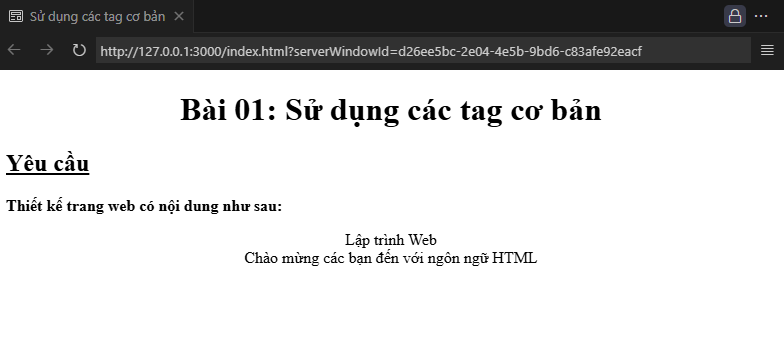
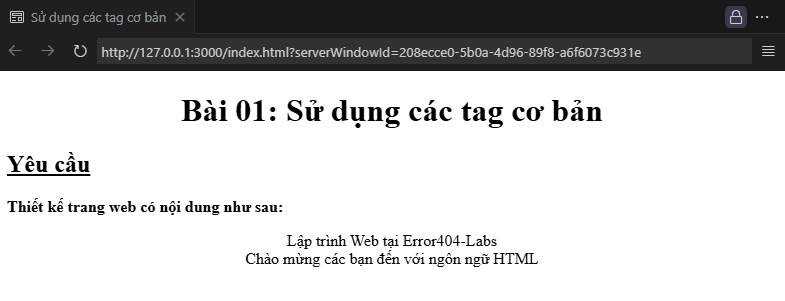
- Update demo.png

diff --git a/htmlcssjs/HocWeb/CoBan/slideshare/Bai01/index.html b/htmlcssjs/HocWeb/CoBan/slideshare/Bai01/index.html
@@ -4,280 +4,14 @@
         <meta charset="UTF-8" />
         <meta name="viewport" content="width=device-width, initial-scale=1.0" />
         <title>Sử dụng các tag cơ bản</title>
-        <script src="https://cdn.jsdelivr.net/npm/marked/marked.min.js"></script>
-        <style>
-            :root {
-                color-scheme: light dark;
-                --primary: #1e5b66;
-                --radius: 10px;
-            }
-
-            /* ---------- Custom Scrollbar ---------- */
-            ::-webkit-scrollbar {
-                width: 10px;
-            }
-
-            ::-webkit-scrollbar-track {
-                background: rgba(0, 0, 0, 0.05);
-            }
-
-            ::-webkit-scrollbar-thumb {
-                background: var(--primary);
-                border-radius: 5px;
-            }
-
-            ::-webkit-scrollbar-thumb:hover {
-                background: #165159;
-            }
-
-            /* Firefox scrollbar */
-            * {
-                scrollbar-width: thin;
-                scrollbar-color: var(--primary) rgba(0, 0, 0, 0.05);
-            }
-
-            /* ---------- Layout ---------- */
-            body {
-                font-family: "Segoe UI", system-ui, sans-serif;
-                line-height: 1.7;
-                margin: 0;
-                padding: 0;
-                min-height: 100vh;
-                display: flex;
-                justify-content: center;
-                align-items: flex-start;
-                background: linear-gradient(135deg, #667eea 0%, #764ba2 100%);
-                color: var(--text, #222);
-                transition: background 0.3s, color 0.3s;
-            }
-
-            #container {
-                width: 100%;
-                max-width: 900px;
-                margin: 2rem;
-                background: var(--content-bg, #ffffff);
-                padding: 3rem;
-                border-radius: var(--radius);
-                box-shadow: 0 20px 60px rgba(0, 0, 0, 0.3);
-                box-sizing: border-box;
-                transition: background 0.3s, box-shadow 0.3s;
-                animation: slideIn 0.5s ease-out;
-            }
-
-            @keyframes slideIn {
-                from {
-                    opacity: 0;
-                    transform: translateY(30px);
-                }
-                to {
-                    opacity: 1;
-                    transform: translateY(0);
-                }
-            }
-
-            /* ---------- Dark Mode ---------- */
-            @media (prefers-color-scheme: dark) {
-                body {
-                    background: linear-gradient(135deg, #1a1a2e 0%, #16213e 100%);
-                    --text: #e6edf3;
-                    --content-bg: #1e1e2e;
-                }
-                code,
-                pre {
-                    background: #2a2a3a;
-                    color: #d1d5db;
-                }
-                th {
-                    background-color: #2a2a3a;
-                }
-                ::-webkit-scrollbar-track {
-                    background: rgba(255, 255, 255, 0.05);
-                }
-            }
-
-            /* ---------- Typography ---------- */
-            h1,
-            h2,
-            h3,
-            h4,
-            h5,
-            h6 {
-                color: var(--primary);
-                margin-top: 1.8em;
-                margin-bottom: 0.6em;
-                scroll-margin-top: 1em;
-                font-weight: 600;
-            }
-
-            h1 {
-                text-align: center;
-                border-bottom: 3px solid var(--primary);
-                display: inline-block;
-                padding-bottom: 0.3em;
-                margin: 0 auto 1.5em;
-                font-size: 2.2em;
-            }
-
-            h2 {
-                font-size: 1.8em;
-                padding-bottom: 0.3em;
-                border-bottom: 2px solid rgba(30, 91, 102, 0.2);
-            }
-
-            a {
-                color: var(--primary);
-                text-decoration: none;
-                transition: color 0.2s;
-            }
-            a:hover {
-                text-decoration: underline;
-                color: #165159;
-            }
-
-            /* ---------- Code Block ---------- */
-            code,
-            pre {
-                background: #f6f8fa;
-                font-family: 'Consolas', 'Monaco', monospace;
-                padding: 3px 6px;
-                border-radius: 4px;
-                font-size: 0.9em;
-            }
-            pre {
-                padding: 16px;
-                margin: 1.5em 0;
-                overflow-x: auto;
-                border-left: 4px solid var(--primary);
-            }
-            pre code {
-                padding: 0;
-                background: transparent;
-            }
-
-            /* ---------- Table ---------- */
-            table {
-                width: 100%;
-                border-collapse: collapse;
-                margin: 1.5em 0;
-                font-size: 0.95em;
-                border-radius: var(--radius);
-                overflow: hidden;
-                box-shadow: 0 2px 10px rgba(0, 0, 0, 0.1);
-            }
-            th,
-            td {
-                border: 1px solid rgba(0, 0, 0, 0.1);
-                padding: 12px 16px;
-                text-align: left;
-            }
-            th {
-                background: var(--primary);
-                color: white;
-                font-weight: 600;
-                text-transform: uppercase;
-                font-size: 0.85em;
-                letter-spacing: 0.5px;
-            }
-            tr:nth-child(even) {
-                background: rgba(0, 0, 0, 0.02);
-            }
-            tr:hover {
-                background: rgba(30, 91, 102, 0.05);
-                transition: background 0.2s;
-            }
-
-            /* ---------- Others ---------- */
-            ul,
-            ol {
-                padding-left: 2rem;
-                margin: 1em 0;
-            }
-
-            li {
-                margin: 0.5em 0;
-            }
-
-            img {
-                max-width: 100%;
-                height: auto;
-                border-radius: 8px;
-                box-shadow: 0 4px 12px rgba(0, 0, 0, 0.15);
-                margin: 1em 0;
-            }
-
-            blockquote {
-                border-left: 4px solid var(--primary);
-                padding-left: 1.2em;
-                color: #555;
-                margin: 1.5em 0;
-                background: rgba(30, 91, 102, 0.05);
-                padding: 1em 1.2em;
-                border-radius: 0 var(--radius) var(--radius) 0;
-            }
-
-            /* ---------- Responsive ---------- */
-            @media (max-width: 600px) {
-                body {
-                    padding: 0;
-                }
-                #container {
-                    margin: 1rem;
-                    padding: 1.5rem;
-                    border-radius: 8px;
-                }
-                h1 {
-                    font-size: 1.8em;
-                }
-                table,
-                th,
-                td {
-                    font-size: 0.85em;
-                    word-wrap: break-word;
-                }
-            }
-
-            /* ---------- Loading animation ---------- */
-            .loading {
-                color: #888;
-                text-align: center;
-                font-style: italic;
-                padding: 2em;
-            }
-
-            .loading::after {
-                content: '...';
-                animation: dots 1.5s steps(4, end) infinite;
-            }
-
-            @keyframes dots {
-                0%, 20% { content: '.'; }
-                40% { content: '..'; }
-                60%, 100% { content: '...'; }
-            }
-        </style>
     </head>
     <body>
-        <div id="container">
-            <div id="content" class="loading">⏳ Đang tải README.md</div>
-        </div>
-
-        <script>
-            fetch("README.md")
-                .then((res) => {
-                    if (!res.ok) throw new Error("Không thể tải README.md");
-                    return res.text();
-                })
-                .then((text) => {
-                    document
-                        .getElementById("content")
-                        .classList.remove("loading");
-                    document.getElementById("content").innerHTML =
-                        marked.parse(text);
-                })
-                .catch((err) => {
-                    document.getElementById("content").innerHTML =
-                        "⚠ Lỗi tải README.md: " + err.message;
-                });
-        </script>
+        <h1 align="center">Bài 01: Sử dụng các tag cơ bản</h1>
+        <h2 style="text-decoration: underline">Yêu cầu</h2>
+        <p style="font-weight: bold">Thiết kế trang web có nội dung như sau:</p>
+        <p align="center">
+            Lập trình Web tại Error404-Labs<br />Chào mừng các bạn đến với ngôn
+            ngữ HTML
+        </p>
     </body>
 </html>
